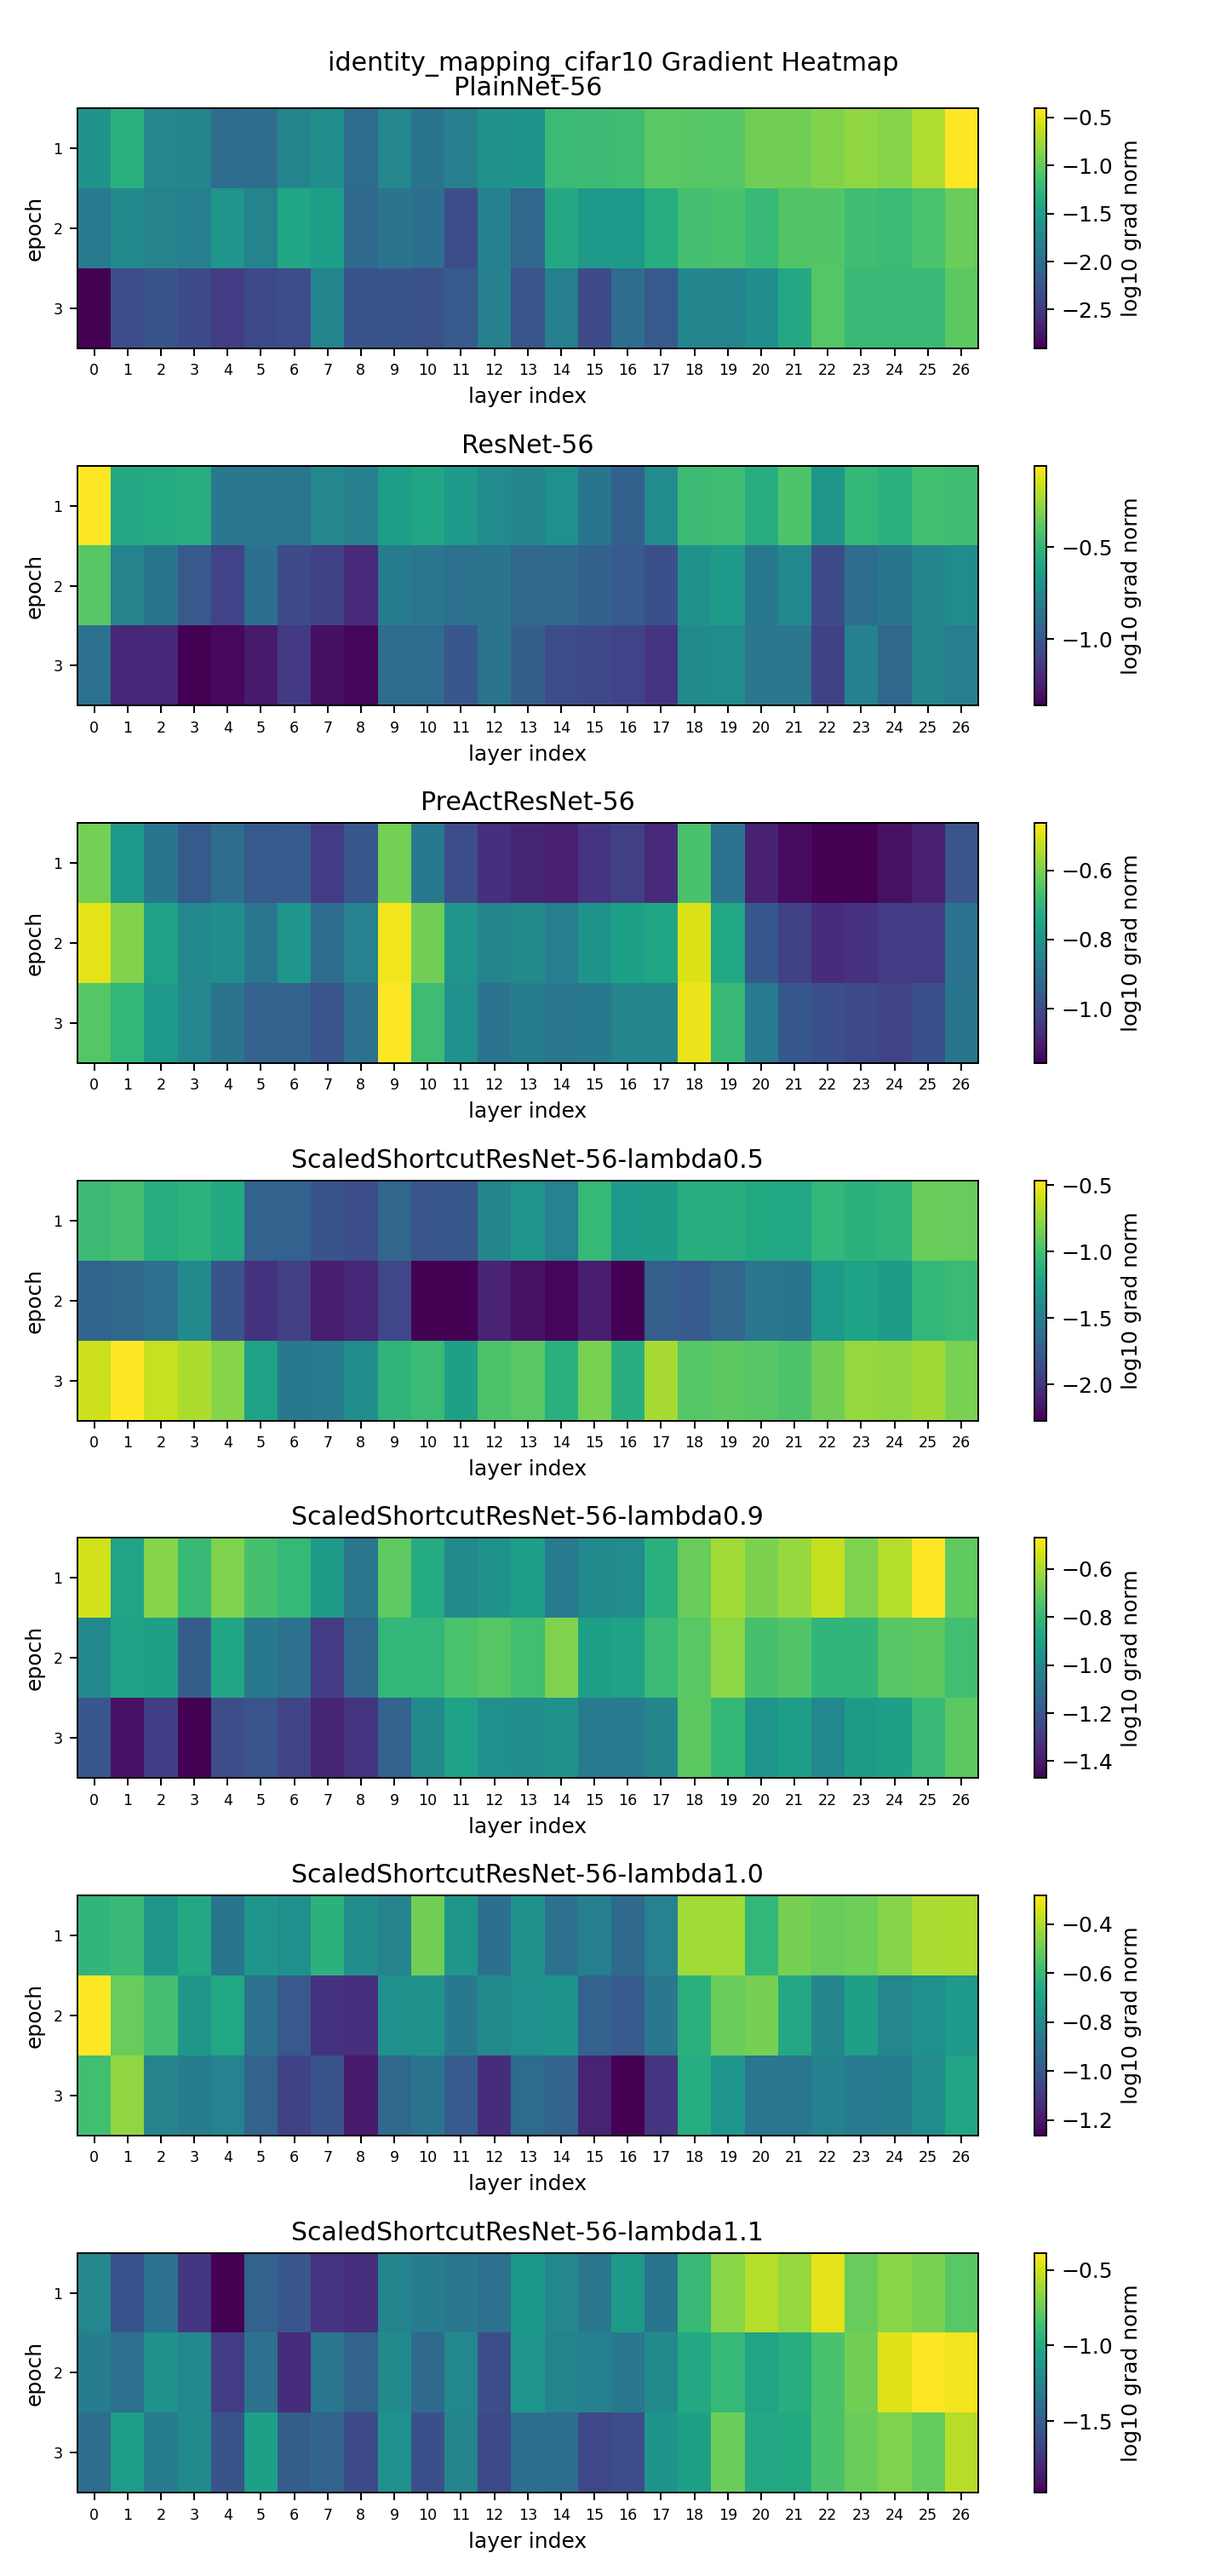
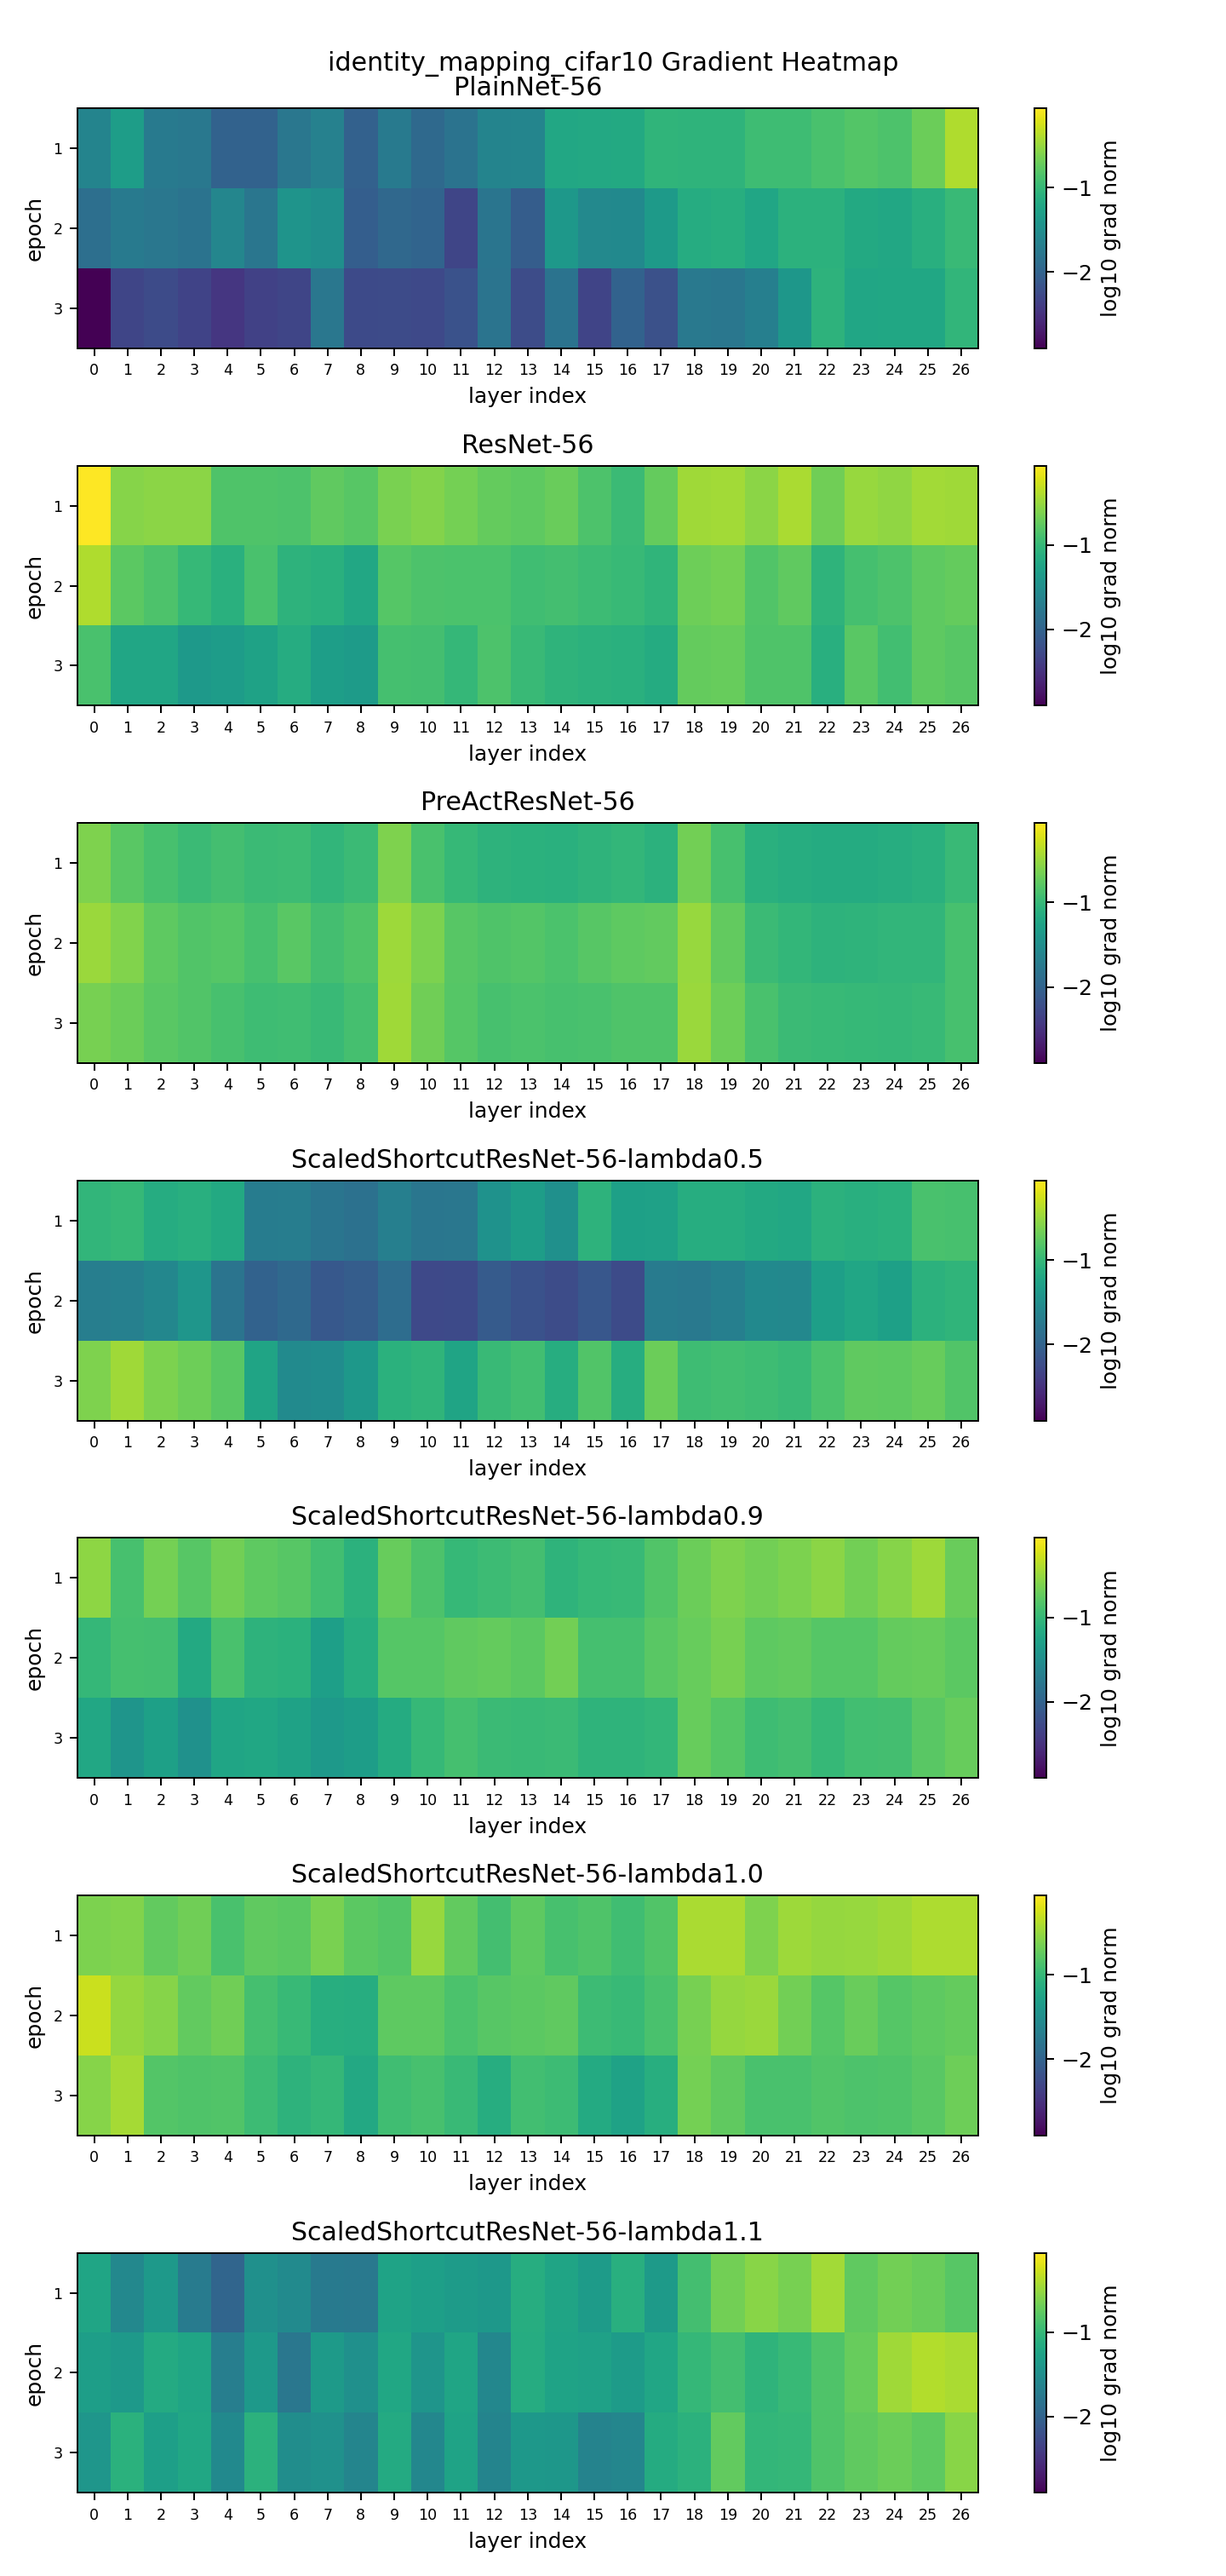
fix: unify CIFAR-10 identity heatmap color scale

diff --git a/harness/mini_experiments.py b/harness/mini_experiments.py
@@ -180,7 +180,27 @@ def plot_layerwise_gradients(rows: Sequence[Dict], output_path: Path, title: str
     plt.close(fig)
 
 
-def plot_gradient_heatmap(rows: Sequence[Dict], output_path: Path, title: str, model: Optional[str] = None) -> None:
+def gradient_heatmap_limits(rows: Sequence[Dict]) -> Optional[tuple[float, float]]:
+    values = []
+    for row in rows:
+        try:
+            value = float(row["log10_grad_norm"])
+        except (KeyError, TypeError, ValueError):
+            continue
+        if math.isfinite(value):
+            values.append(value)
+    if not values:
+        return None
+    return min(values), max(values)
+
+
+def plot_gradient_heatmap(
+    rows: Sequence[Dict],
+    output_path: Path,
+    title: str,
+    model: Optional[str] = None,
+    value_limits: Optional[tuple[float, float]] = None,
+) -> None:
     filtered = [row for row in rows if model is None or row["model"] == model]
     if not filtered:
         return
@@ -194,7 +214,13 @@ def plot_gradient_heatmap(rows: Sequence[Dict], output_path: Path, title: str, m
         for epoch in epochs:
             epoch_rows = {int(item["layer_index"]): float(item["log10_grad_norm"]) for item in group if int(item["epoch"]) == epoch}
             matrix.append([epoch_rows.get(layer, math.nan) for layer in layers])
-        image = axis.imshow(matrix, aspect="auto", interpolation="nearest")
+        image = axis.imshow(
+            matrix,
+            aspect="auto",
+            interpolation="nearest",
+            vmin=value_limits[0] if value_limits else None,
+            vmax=value_limits[1] if value_limits else None,
+        )
         axis.set_title(label)
         axis.set_xlabel("layer index")
         axis.set_ylabel("epoch")
@@ -499,7 +525,12 @@ def run_model_suite(
         grad_path = paths["figures"] / figure_names["layerwise"]
         heatmap_path = paths["figures"] / figure_names["heatmap"]
         plot_layerwise_gradients(gradient_rows, grad_path, f"{run_name} Layer-wise Gradient Norm")
-        plot_gradient_heatmap(gradient_rows, heatmap_path, f"{run_name} Gradient Heatmap")
+        plot_gradient_heatmap(
+            gradient_rows,
+            heatmap_path,
+            f"{run_name} Gradient Heatmap",
+            value_limits=gradient_heatmap_limits(gradient_rows),
+        )
         figure_paths.extend([grad_path, heatmap_path])
 
     log_path = paths["logs"] / f"{run_name}_log.md"
@@ -766,12 +797,19 @@ def run_identity(args) -> Dict[str, object]:
 
     gradients = result["gradients"]
     fig_dir = result_root / "figures"
+    heatmap_limits = gradient_heatmap_limits(gradients)
     for model, filename in [
         ("PlainNet-56", "fig_identity_gradient_heatmap_plainnet.png"),
         ("ResNet-56", "fig_identity_gradient_heatmap_resnet.png"),
         ("PreActResNet-56", "fig_identity_gradient_heatmap_preact_resnet.png"),
     ]:
-        plot_gradient_heatmap(gradients, fig_dir / filename, f"{model} Gradient Heatmap", model=model)
+        plot_gradient_heatmap(
+            gradients,
+            fig_dir / filename,
+            f"{model} Gradient Heatmap",
+            model=model,
+            value_limits=heatmap_limits,
+        )
         result["figures"].append(fig_dir / filename)
     lambda_path = fig_dir / "fig_identity_lambda_ablation_grad_ratio.png"
     plot_lambda_ablation(result["summary"], lambda_path)

diff --git a/docs/cifar10_rerun_analysis.md b/docs/cifar10_rerun_analysis.md
@@ -61,6 +61,8 @@ Generated artifacts:
 - `results/identity_mapping_cifar10/tables/table_identity_cifar10_gradient_stability.csv`
 - `results/identity_mapping_cifar10/tables/table_identity_cifar10_lambda_ablation.csv`
 
+Heatmap redraw note: the identity heatmaps now use a shared `log10_grad_norm` color scale from `-2.9018` to `-0.0602`, computed from `results/identity_mapping_cifar10/gradients/identity_cifar10_gradient_stats.csv`.
+
 Analysis:
 
 - PlainNet-56 remained near chance-level validation accuracy at 11.33%.
@@ -108,4 +110,3 @@ Analysis:
 - FakeData results validate the code path only: model construction, training loop, gradient collection, plotting, tables, and lesion masks.
 - CIFAR-10 results are the real experimental evidence in this repository.
 - The CIFAR-10 runs are still lightweight: small subsets, short training, and mostly single seed. Use cautious language such as "supports", "suggests", and "is consistent with".
-

diff --git a/docs/identity_mapping_experiment_cifar10.md b/docs/identity_mapping_experiment_cifar10.md
@@ -32,6 +32,8 @@ For a residual block `x_{l+1} = x_l + F_l(x_l)`, the identity term creates a dir
 - `results\identity_mapping_cifar10\figures\fig_identity_gradient_heatmap_preact_resnet.png`
 - `results\identity_mapping_cifar10\figures\fig_identity_lambda_ablation_grad_ratio.png`
 
+Heatmap note: the CIFAR-10 identity gradient heatmaps were redrawn with a shared `log10_grad_norm` color scale from `-2.9018` to `-0.0602`, so colors are comparable across model-specific heatmaps.
+
 ## Generated Tables
 
 - `results\identity_mapping_cifar10\tables\table_identity_cifar10_model_comparison.csv`
